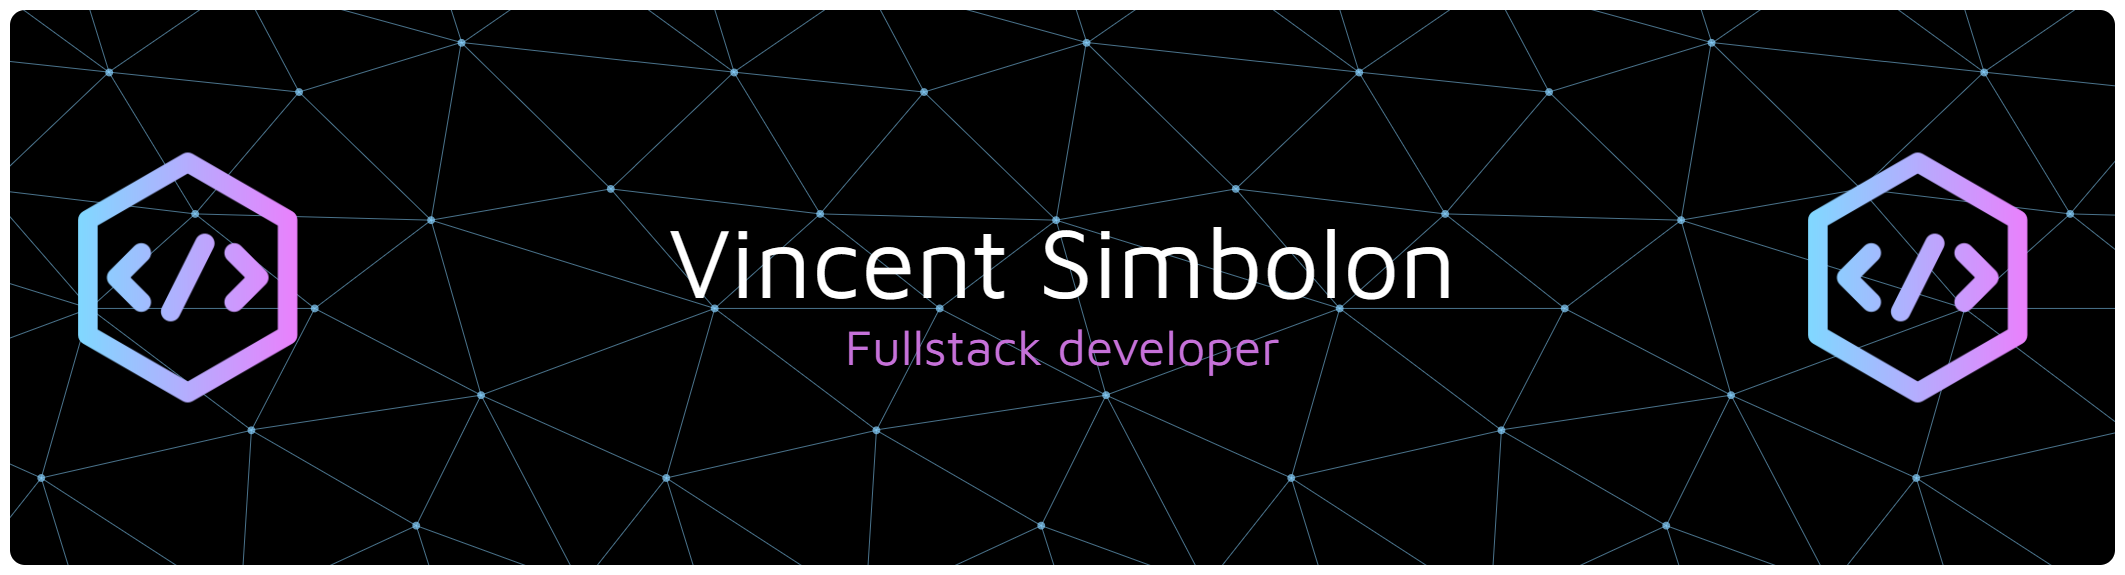
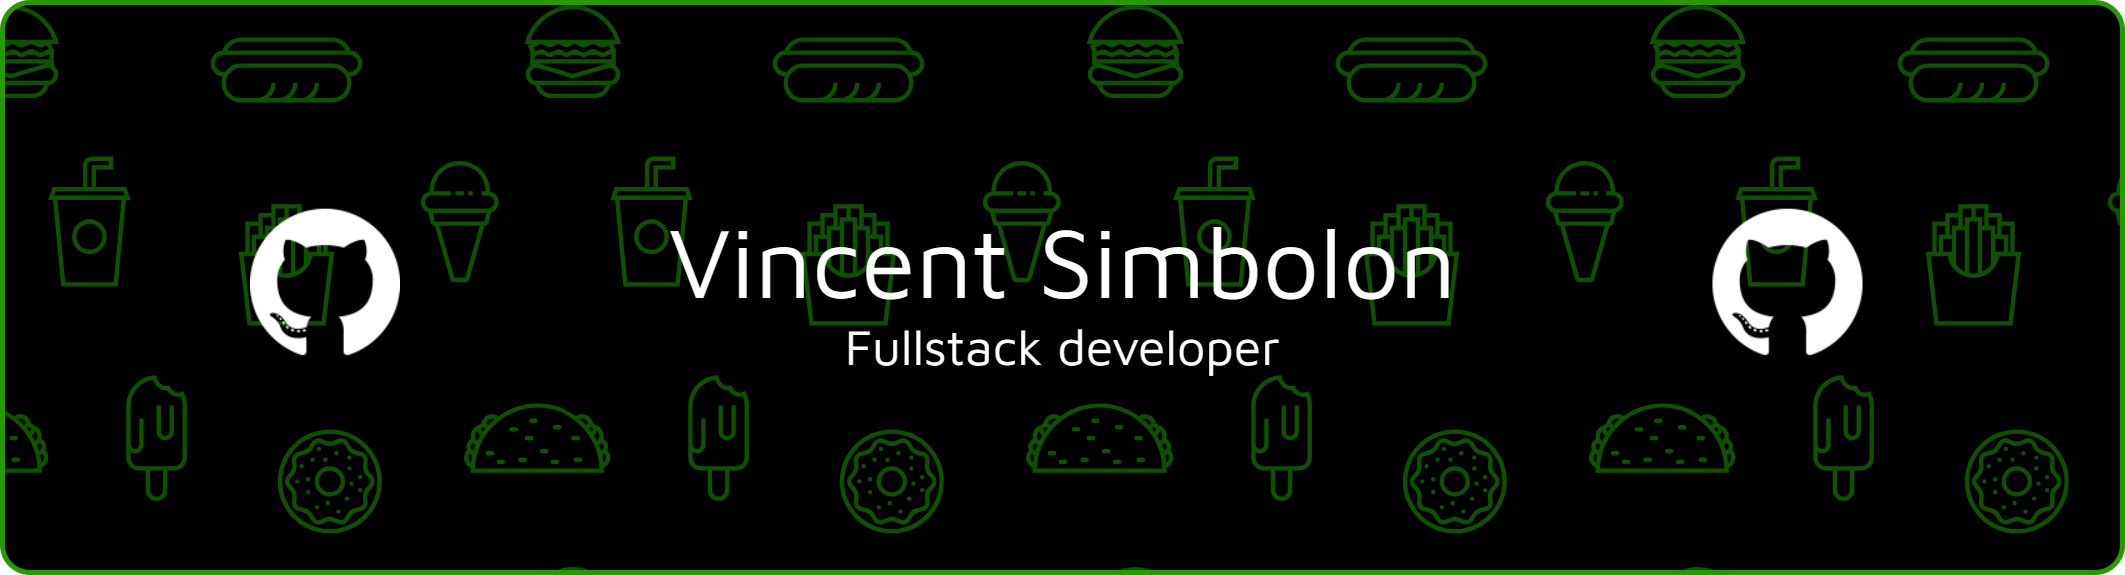
updated about me

diff --git a/README.md b/README.md
@@ -1,8 +1,8 @@
 ![](github-header-banner.png)
 
 <div align="center">
-  
-[![Typing SVG](https://readme-typing-svg.demolab.com?font=Fira+Code&weight=600&size=22&pause=1000&color=E63946&center=true&vCenter=true&random=false&width=500&lines=Hey%2C+I'm+Vincent!+%F0%9F%8F%8E%EF%B8%8F;Code+Enthusiast+%7C+Dog+Lover+%F0%9F%90%95)](https://git.io/typing-svg)
+ 
+[![Typing SVG](https://readme-typing-svg.demolab.com?font=Fira+Code&weight=600&size=22&pause=1000&color=2A9D8F&center=true&vCenter=true&random=false&width=500&lines=Greetings%2C+Mudblood+🐍;Vincent+Simbolon;Code+Enthusiast)](https://git.io/typing-svg)
 
 [![Discord](https://img.shields.io/badge/Discord-%237289DA.svg?logo=discord&logoColor=white)](https://discord.gg/erNV9V2T)
 [![Instagram](https://img.shields.io/badge/Instagram-%23E4405F.svg?logo=Instagram&logoColor=white)](https://instagram.com/vincentjcas)
@@ -12,10 +12,10 @@
 
 ---
 
-## 💫 About Me
+## 🐍 Pure-Blood Ambition
 
 <div align="center">
-<img src="https://media.giphy.com/media/qgQUggAC3Pfv687qPC/giphy.gif" width="400"/>
+<img src="https://media.giphy.com/media/v1.Y2lkPTc5MGI3NjExcHNicHczbjIzMGRtbmNqbm1pZ2xpanZrMGp4YmZ4M3BpOTFnOTd3ZCZlcD12MV9naWZzX3NlYXJjaCZjdD1n/UhNqutHksywkU/giphy.gif" width="400"/>
 </div>
 
 <br>
@@ -24,23 +24,22 @@
 <tr>
 <td width="50%">
 
-**🏎 Racing Career**
+**🪄 Hogwarts Career**
 
-- Professional driver for **Ferrari AF Corse**
-- WEC Hypercar Class competitor
-- 🏆 **Le Mans 24H Winner** (2025)
-- 🥇 **World Driver Champion** 2025
-- Also racing in IMSA GT3 class
+- 🏰 **House:** Proud **Slytherin** - 🌑 **Specialization:** Advanced **Dark Arts** & Potions
+- 🏆 **House Cup Winner** (2025)
+- 🧪 Expert in weaving curses into complex algorithms
+- Seeking the Elder Wand (or at least a bug-free compiler)
 
 </td>
 <td width="50%">
 
-**💻 Off The Track**
+**💻 The Digital Dungeon**
 
-- Learning **C++** and **Python**
-- Currently figuring out life
-- 🐕 Huge dog lover!
-- 🎮 Gamer when not racing
+- Transmuting **C++** and **Python** into digital sorcery
+- Analyzing ancient scripts (Legacy Code)
+- 🐕 Loyal friend to magical creatures (and dogs!)
+- 🎮 Duelist in the gaming realm when not brewing code
 
 </td>
 </tr>
@@ -48,14 +47,14 @@
 
 ---
 
-## 🛠 Tech Stack
+## 🧪 Tech Sorcery & Tools
 
 <div align="center">
 
-### Languages & Tools
+### Forbidden Languages
 [![My Skills](https://skillicons.dev/icons?i=py,cpp,c,js)](https://skillicons.dev)
 
-### Gaming Platforms 🎮
+### Magical Platforms 🎮
 ![PSN](https://img.shields.io/badge/PSN-%230070D1.svg?style=for-the-badge&logo=Playstation&logoColor=white)
 ![Steam](https://img.shields.io/badge/Steam-%23000000.svg?style=for-the-badge&logo=steam&logoColor=white)
 ![Xbox](https://img.shields.io/badge/Xbox-%23107C10.svg?style=for-the-badge&logo=xbox&logoColor=white)
@@ -66,68 +65,32 @@
 
 ---
 
-## 📊 GitHub Stats
+## 📊 Grimoire Stats
 
 <div align="center">
 
-<!-- Animated Stats Cards -->
 <a href="https://github.com/vincentjcas">
-  <img src="https://github-readme-stats.vercel.app/api?username=vincentjcas&show_icons=true&theme=radical&include_all_commits=true&count_private=true&hide_border=true&bg_color=0D1117&title_color=F85D7F&icon_color=F8D866&ring_color=F8D866"/>
+  <img src="https://github-readme-stats.vercel.app/api?username=vincentjcas&show_icons=true&theme=emerald-green&include_all_commits=true&count_private=true&hide_border=true&bg_color=0D1117&title_color=2ECC71&icon_color=F8D866&ring_color=2ECC71"/>
 </a>
 
-<!-- Streak Stats with Fire Animation -->
 <br>
 <a href="https://git.io/streak-stats">
-  <img width="70%" src="https://streak-stats.demolab.com?user=vincentjcas&theme=radical&hide_border=true&background=0D1117&ring=F85D7F&fire=F8D866&currStreakLabel=F85D7F&currStreakNum=F8D866&sideNums=F85D7F"/>
+  <img width="70%" src="https://streak-stats.demolab.com?user=vincentjcas&theme=dark&hide_border=true&background=0D1117&ring=2ECC71&fire=2ECC71&currStreakLabel=2ECC71&currStreakNum=F8D866&sideNums=2ECC71"/>
 </a>
 
-<!-- Animated Activity Graph -->
-<br><br>
-<img src="https://github-readme-activity-graph.vercel.app/graph?username=vincentjcas&bg_color=0D1117&color=F85D7F&line=F8D866&point=FFFFFF&area=true&hide_border=true&custom_title=📈%20Contribution%20Activity"/>
-
-<!-- Animated 3D Contribution Calendar -->
-<br>
-<picture>
-  <source media="(prefers-color-scheme: dark)" srcset="https://raw.githubusercontent.com/vincentjcas/vincentjcas/main/profile-3d-contrib/profile-night-rainbow.svg"/>
-  <img src="https://raw.githubusercontent.com/vincentjcas/vincentjcas/main/profile-3d-contrib/profile-night-rainbow.svg" width="100%"/>
-</picture>
-
-<!-- Profile Summary Cards -->
-<br>
-<img src="https://github-profile-summary-cards.vercel.app/api/cards/profile-details?username=vincentjcas&theme=radical"/>
-<br>
-<img src="https://github-profile-summary-cards.vercel.app/api/cards/stats?username=vincentjcas&theme=radical"/>
-<img src="https://github-profile-summary-cards.vercel.app/api/cards/productive-time?username=vincentjcas&theme=radical&utcOffset=7"/>
-
 </div>
 
 ---
 
-## 🏆 Trophies
+## 📈 Dark Magic Activity
 
 <div align="center">
-<img src="https://github-profile-trophy.vercel.app/?username=vincentjcas&theme=radical&no-frame=true&no-bg=true&column=7&margin-w=15&margin-h=15"/>
+<img src="https://github-readme-activity-graph.vercel.app/graph?username=vincentjcas&bg_color=0D1117&color=2ECC71&line=1DB954&point=FFFFFF&area=true&hide_border=true"/>
 </div>
 
 ---
 
-## 📈 Activity Graph
-
-<div align="center">
-<img src="https://github-readme-activity-graph.vercel.app/graph?username=vincentjcas&bg_color=0D1117&color=F85D7F&line=F8D866&point=FFFFFF&area=true&hide_border=true"/>
-</div>
-
----
-
-## 💬 Random Dev Quote
-
-<div align="center">
-<img src="https://quotes-github-readme.vercel.app/api?type=horizontal&theme=radical"/>
-</div>
-
----
-
-### 🐍 Watch the Snake Eat My Contributions!
+### 🐍 Watch the Basilisk Eat My Contributions!
 <div align="center">
 <picture>
   <source media="(prefers-color-scheme: dark)" srcset="https://raw.githubusercontent.com/vincentjcas/vincentjcas/output/pacman-contribution-graph-dark.svg">
@@ -140,19 +103,14 @@
 
 <div align="center">
 
-## ☕ Support My Work
+## ☕ Support the Dark Arts
 
 [![BuyMeACoffee](https://img.shields.io/badge/Buy%20Me%20a%20Coffee-ffdd00?style=for-the-badge&logo=buy-me-a-coffee&logoColor=black)](https://buymeacoffee.com/vincentjcas)
 [![PayPal](https://img.shields.io/badge/PayPal-00457C?style=for-the-badge&logo=paypal&logoColor=white)](https://paypal.me/vincentjcas)
-[![Ko-Fi](https://img.shields.io/badge/Ko--fi-F16061?style=for-the-badge&logo=ko-fi&logoColor=white)](https://ko-fi.com/vincentjcas)
 
 ---
 
-<img src="https://capsule-render.vercel.app/api?type=waving&color=gradient&customColorList=6,11,20&height=100&section=footer"/>
+<img src="https://capsule-render.vercel.app/api?type=waving&color=2ECC71&height=100&section=footer"/>
 
-![](https://visitcount.itsvg.in/api?id=vincentjcas&icon=5&color=6)
-
-**Thanks for visiting!** 🏁  
-*"The goal is to keep racing, on track and in life."*
-
+**"Ssa-hasi-eth: Ssllytherin, ssa-hasi-eth ssee-tha-sss."** 🐍 
 </div>
